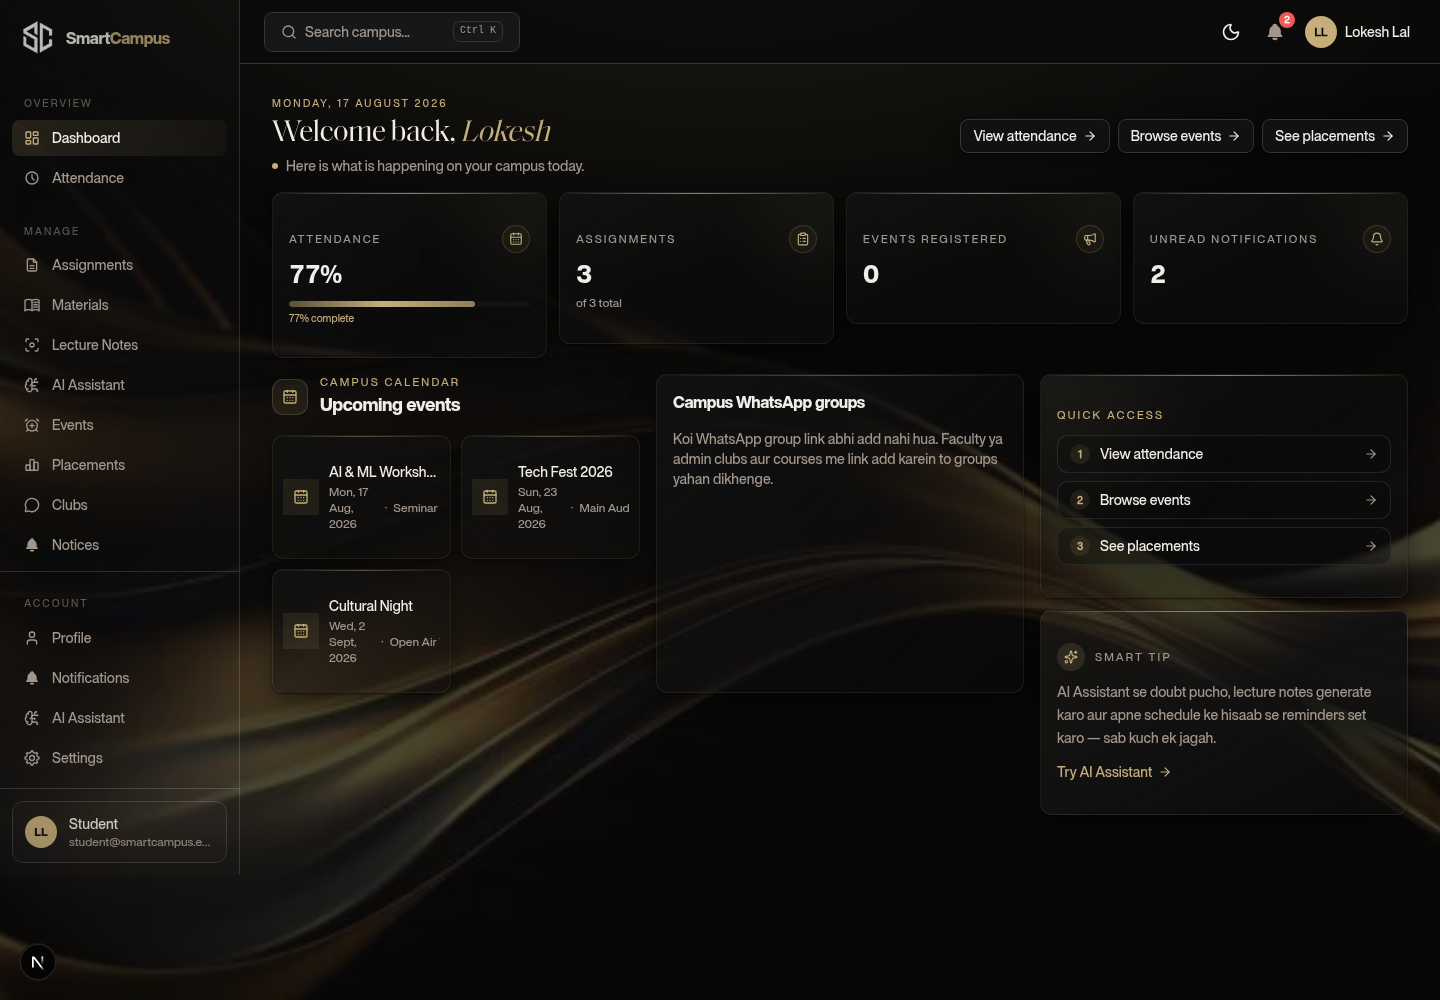
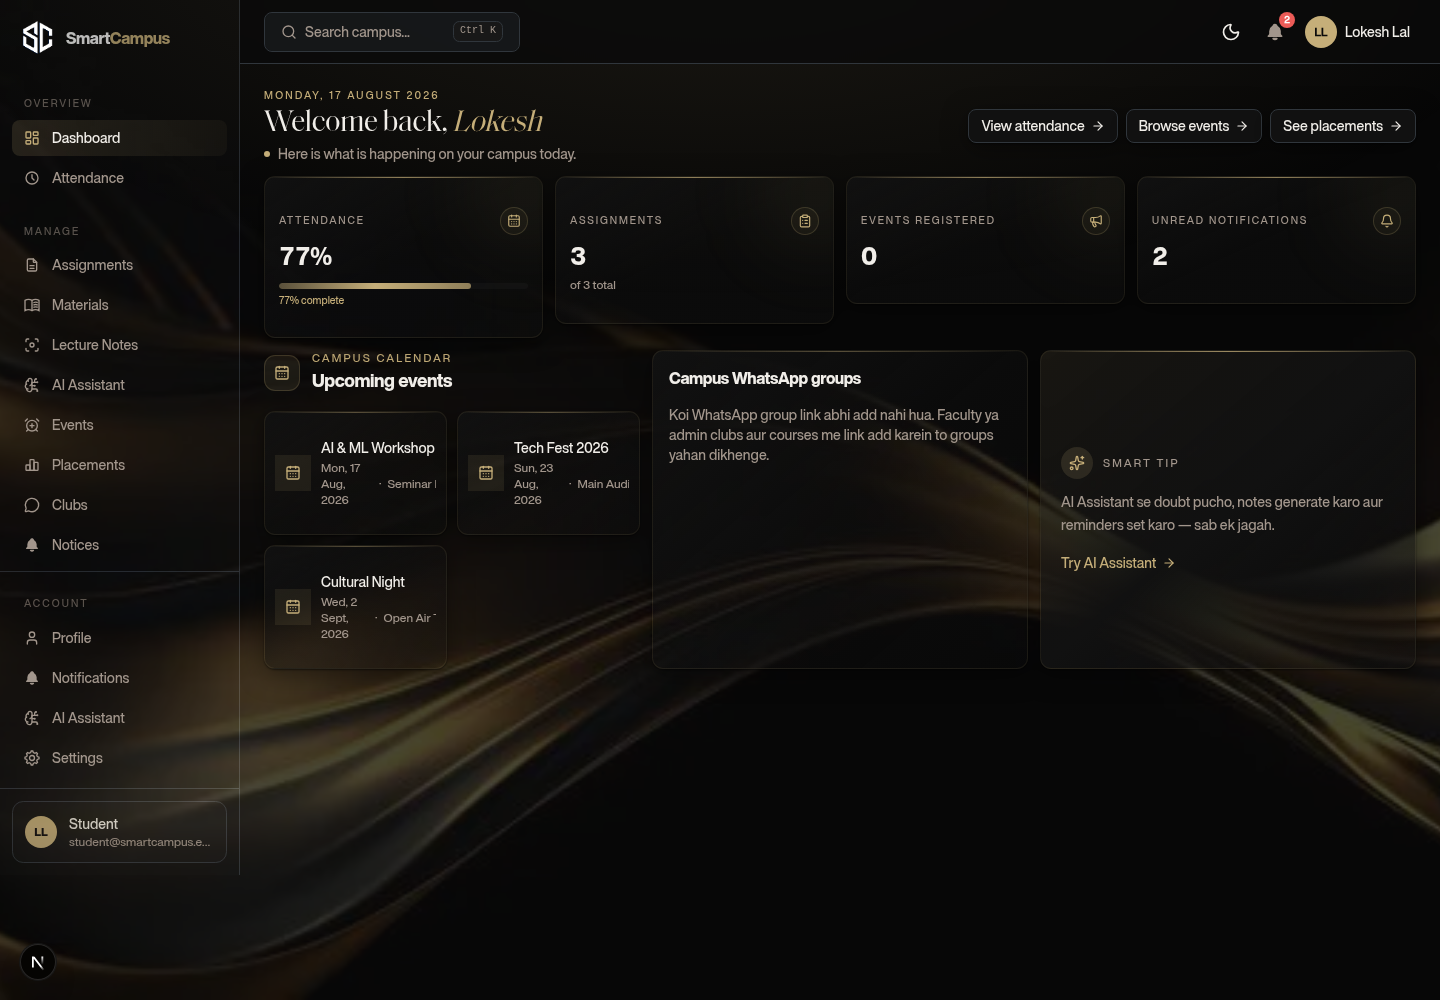
saare roles ke dashboard ko consistent premium gold theme me update kiya - calendar, groups, smart tip, gold charts

diff --git a/src/components/dashboard/analytics-charts.tsx b/src/components/dashboard/analytics-charts.tsx
@@ -46,9 +46,11 @@ export function AnalyticsCharts({ data }: { data: Record<string, unknown> }) {
   const charts = data as unknown as ChartData;
 
   return (
-    <div className="grid gap-6 lg:grid-cols-2">
-      <Card>
+    <div className="grid gap-4 lg:grid-cols-2">
+      <Card className="relative overflow-hidden border-primary/10 bg-gradient-to-br from-card to-surface/40">
+        <div className="pointer-events-none absolute inset-x-0 top-0 h-px bg-linear-to-r from-transparent via-primary/50 to-transparent" />
         <CardHeader>
+          <p className="text-[0.7rem] font-medium uppercase tracking-[0.18em] text-primary">Analytics</p>
           <CardTitle>Monthly attendance</CardTitle>
         </CardHeader>
         <CardContent>
@@ -82,8 +84,10 @@ export function AnalyticsCharts({ data }: { data: Record<string, unknown> }) {
         </CardContent>
       </Card>
 
-      <Card>
+      <Card className="relative overflow-hidden border-primary/10 bg-gradient-to-br from-card to-surface/40">
+        <div className="pointer-events-none absolute inset-x-0 top-0 h-px bg-linear-to-r from-transparent via-primary/50 to-transparent" />
         <CardHeader>
+          <p className="text-[0.7rem] font-medium uppercase tracking-[0.18em] text-primary">Analytics</p>
           <CardTitle>Department performance</CardTitle>
         </CardHeader>
         <CardContent>
@@ -108,8 +112,10 @@ export function AnalyticsCharts({ data }: { data: Record<string, unknown> }) {
         </CardContent>
       </Card>
 
-      <Card>
+      <Card className="relative overflow-hidden border-primary/10 bg-gradient-to-br from-card to-surface/40">
+        <div className="pointer-events-none absolute inset-x-0 top-0 h-px bg-linear-to-r from-transparent via-primary/50 to-transparent" />
         <CardHeader>
+          <p className="text-[0.7rem] font-medium uppercase tracking-[0.18em] text-primary">Analytics</p>
           <CardTitle>Placement applications</CardTitle>
         </CardHeader>
         <CardContent>
@@ -139,8 +145,10 @@ export function AnalyticsCharts({ data }: { data: Record<string, unknown> }) {
         </CardContent>
       </Card>
 
-      <Card>
+      <Card className="relative overflow-hidden border-primary/10 bg-gradient-to-br from-card to-surface/40">
+        <div className="pointer-events-none absolute inset-x-0 top-0 h-px bg-linear-to-r from-transparent via-primary/50 to-transparent" />
         <CardHeader>
+          <p className="text-[0.7rem] font-medium uppercase tracking-[0.18em] text-primary">Analytics</p>
           <CardTitle>Top events by registrations</CardTitle>
         </CardHeader>
         <CardContent>

diff --git a/src/app/(dashboard)/dashboard/page.tsx b/src/app/(dashboard)/dashboard/page.tsx
@@ -179,30 +179,8 @@ export default function DashboardHome() {
       <div className="grid gap-3 lg:grid-cols-3">
         <div className="space-y-3 lg:col-span-2">
           <div className="grid gap-3 lg:grid-cols-2">
-            {(role === "student" || role === "coordinator") && <CalendarWidget />}
-
-            {role === "student" ? (
-              <CampusGroupsCard />
-            ) : (
-              <Card>
-                <CardHeader>
-                  <CardTitle>Recent activity</CardTitle>
-                </CardHeader>
-                <CardContent>
-                  {loading ? (
-                    <div className="space-y-2">
-                      <Skeleton className="h-4 w-full" />
-                      <Skeleton className="h-4 w-3/4" />
-                      <Skeleton className="h-4 w-1/2" />
-                    </div>
-                  ) : (
-                    <p className="text-sm text-muted-foreground">
-                      Your recent activity and updates will appear here as things happen.
-                    </p>
-                  )}
-                </CardContent>
-              </Card>
-            )}
+            <CalendarWidget />
+            <CampusGroupsCard />
           </div>
 
           {role === "admin" && <AnalyticsCharts data={data ?? {}} />}

diff --git a/src/app/globals.css b/src/app/globals.css
@@ -117,10 +117,10 @@
   --gold-soft: oklch(0.87 0.06 90);
   --ink: oklch(0.16 0.03 60);
   --chart-1: #c5ae79;
-  --chart-2: #7c735c;
-  --chart-3: #30363c;
-  --chart-4: oklch(0.72 0.04 60);
-  --chart-5: oklch(0.45 0.02 60);
+  --chart-2: #a0906b;
+  --chart-3: #d6c49a;
+  --chart-4: #e8dcbd;
+  --chart-5: #7c735c;
   --radius: 0.5rem;
   --shadow-card: 0 1px 2px oklch(0.16 0.03 60 / 0.05), 0 8px 24px oklch(0.16 0.03 60 / 0.05);
   --shadow-elevated: 0 4px 12px oklch(0.16 0.03 60 / 0.07), 0 16px 48px oklch(0.16 0.03 60 / 0.1);
@@ -164,10 +164,10 @@
   --gold-soft: #7c735c;
   --ink: oklch(0.95 0.008 85);
   --chart-1: #c5ae79;
-  --chart-2: #7c735c;
+  --chart-2: #d6c49a;
   --chart-3: #a0906b;
-  --chart-4: #d6c49a;
-  --chart-5: #4a4a4a;
+  --chart-4: #e8dcbd;
+  --chart-5: #7c735c;
   --radius: 0.5rem;
   --shadow-card: 0 1px 2px oklch(0.01 0.01 80 / 0.5), 0 6px 24px oklch(0.01 0.01 80 / 0.4);
   --shadow-elevated: 0 4px 16px oklch(0.01 0.01 80 / 0.55), 0 20px 56px oklch(0.01 0.01 80 / 0.6);

diff --git a/src/components/dashboard/sidebar.tsx b/src/components/dashboard/sidebar.tsx
@@ -143,7 +143,7 @@ export function Sidebar({ mobile = false }: { mobile?: boolean }) {
       <div className={cn(mobile ? "flex h-full flex-col" : "flex h-full flex-col")}>
         <Link href="/dashboard" className="flex items-center gap-2.5 px-5 py-5">
           <Logo className="h-8 w-8 sm:h-9 sm:w-9" />
-          <span className="font-heading text-base tracking-tight">
+          <span className="font-heading text-base tracking-tight text-foreground dark:text-zinc-50">
             Smart<span className="text-primary">Campus</span>
           </span>
         </Link>

diff --git a/src/components/landing/navbar.tsx b/src/components/landing/navbar.tsx
@@ -30,7 +30,7 @@ export function Navbar() {
       <nav className="mx-auto flex h-16 max-w-7xl items-center justify-between px-4 sm:px-6">
         <Link href="/" className="flex items-center gap-2.5">
           <Logo className="h-8 w-8 sm:h-9 sm:w-9" />
-          <span className="font-heading text-base tracking-tight">
+          <span className="font-heading text-base tracking-tight text-foreground dark:text-zinc-50">
             Smart<span className="text-primary">Campus</span>
           </span>
         </Link>

diff --git a/src/components/landing/footer.tsx b/src/components/landing/footer.tsx
@@ -41,7 +41,7 @@ export function Footer() {
           <div className="lg:col-span-2">
             <Link href="/" className="flex items-center gap-2.5">
               <Logo className="h-8 w-8 sm:h-9 sm:w-9" />
-              <span className="font-heading text-base tracking-tight">
+              <span className="font-heading text-base tracking-tight text-foreground dark:text-zinc-50">
                 Smart<span className="text-primary">Campus</span>
               </span>
             </Link>

diff --git a/README.md b/README.md
@@ -57,7 +57,7 @@ Golden-on-black premium aesthetic (dulcedo.com-inspired editorial style):
 - **Brand colors** — gold `#C5AE79` accent, deep black backgrounds, warm off-white surfaces
 - **Typography** — serif display headings (editorial feel) + clean sans body, tabular numerals for stats
 - **Glassmorphism** — glass stat cards with gold gradient borders, hairline highlights, subtle glow
-- **Dashboard** — sidebar navigation with animated icons (icons react on hover), viewport-fit compact layout, gold quick-access panel, smart tip card, editorial calendar widget
+- **Dashboard** — har role ka consistent premium layout: gold stat cards, editorial calendar widget, campus WhatsApp groups, smart tip card; sidebar icons animate on hover; viewport-fit compact layout (no scrolling needed). Admin ko full analytics charts (attendance trend, department performance, placement stats, top events) bhi milte hain — sab gold theme me.
 - **Landing** — stacked serif hero, label + number stat pairs, gold wave imagery, gold-themed scrollbar
 - **Motion** — staggered card entrances, hover lift + glow, icon micro-animations
 
